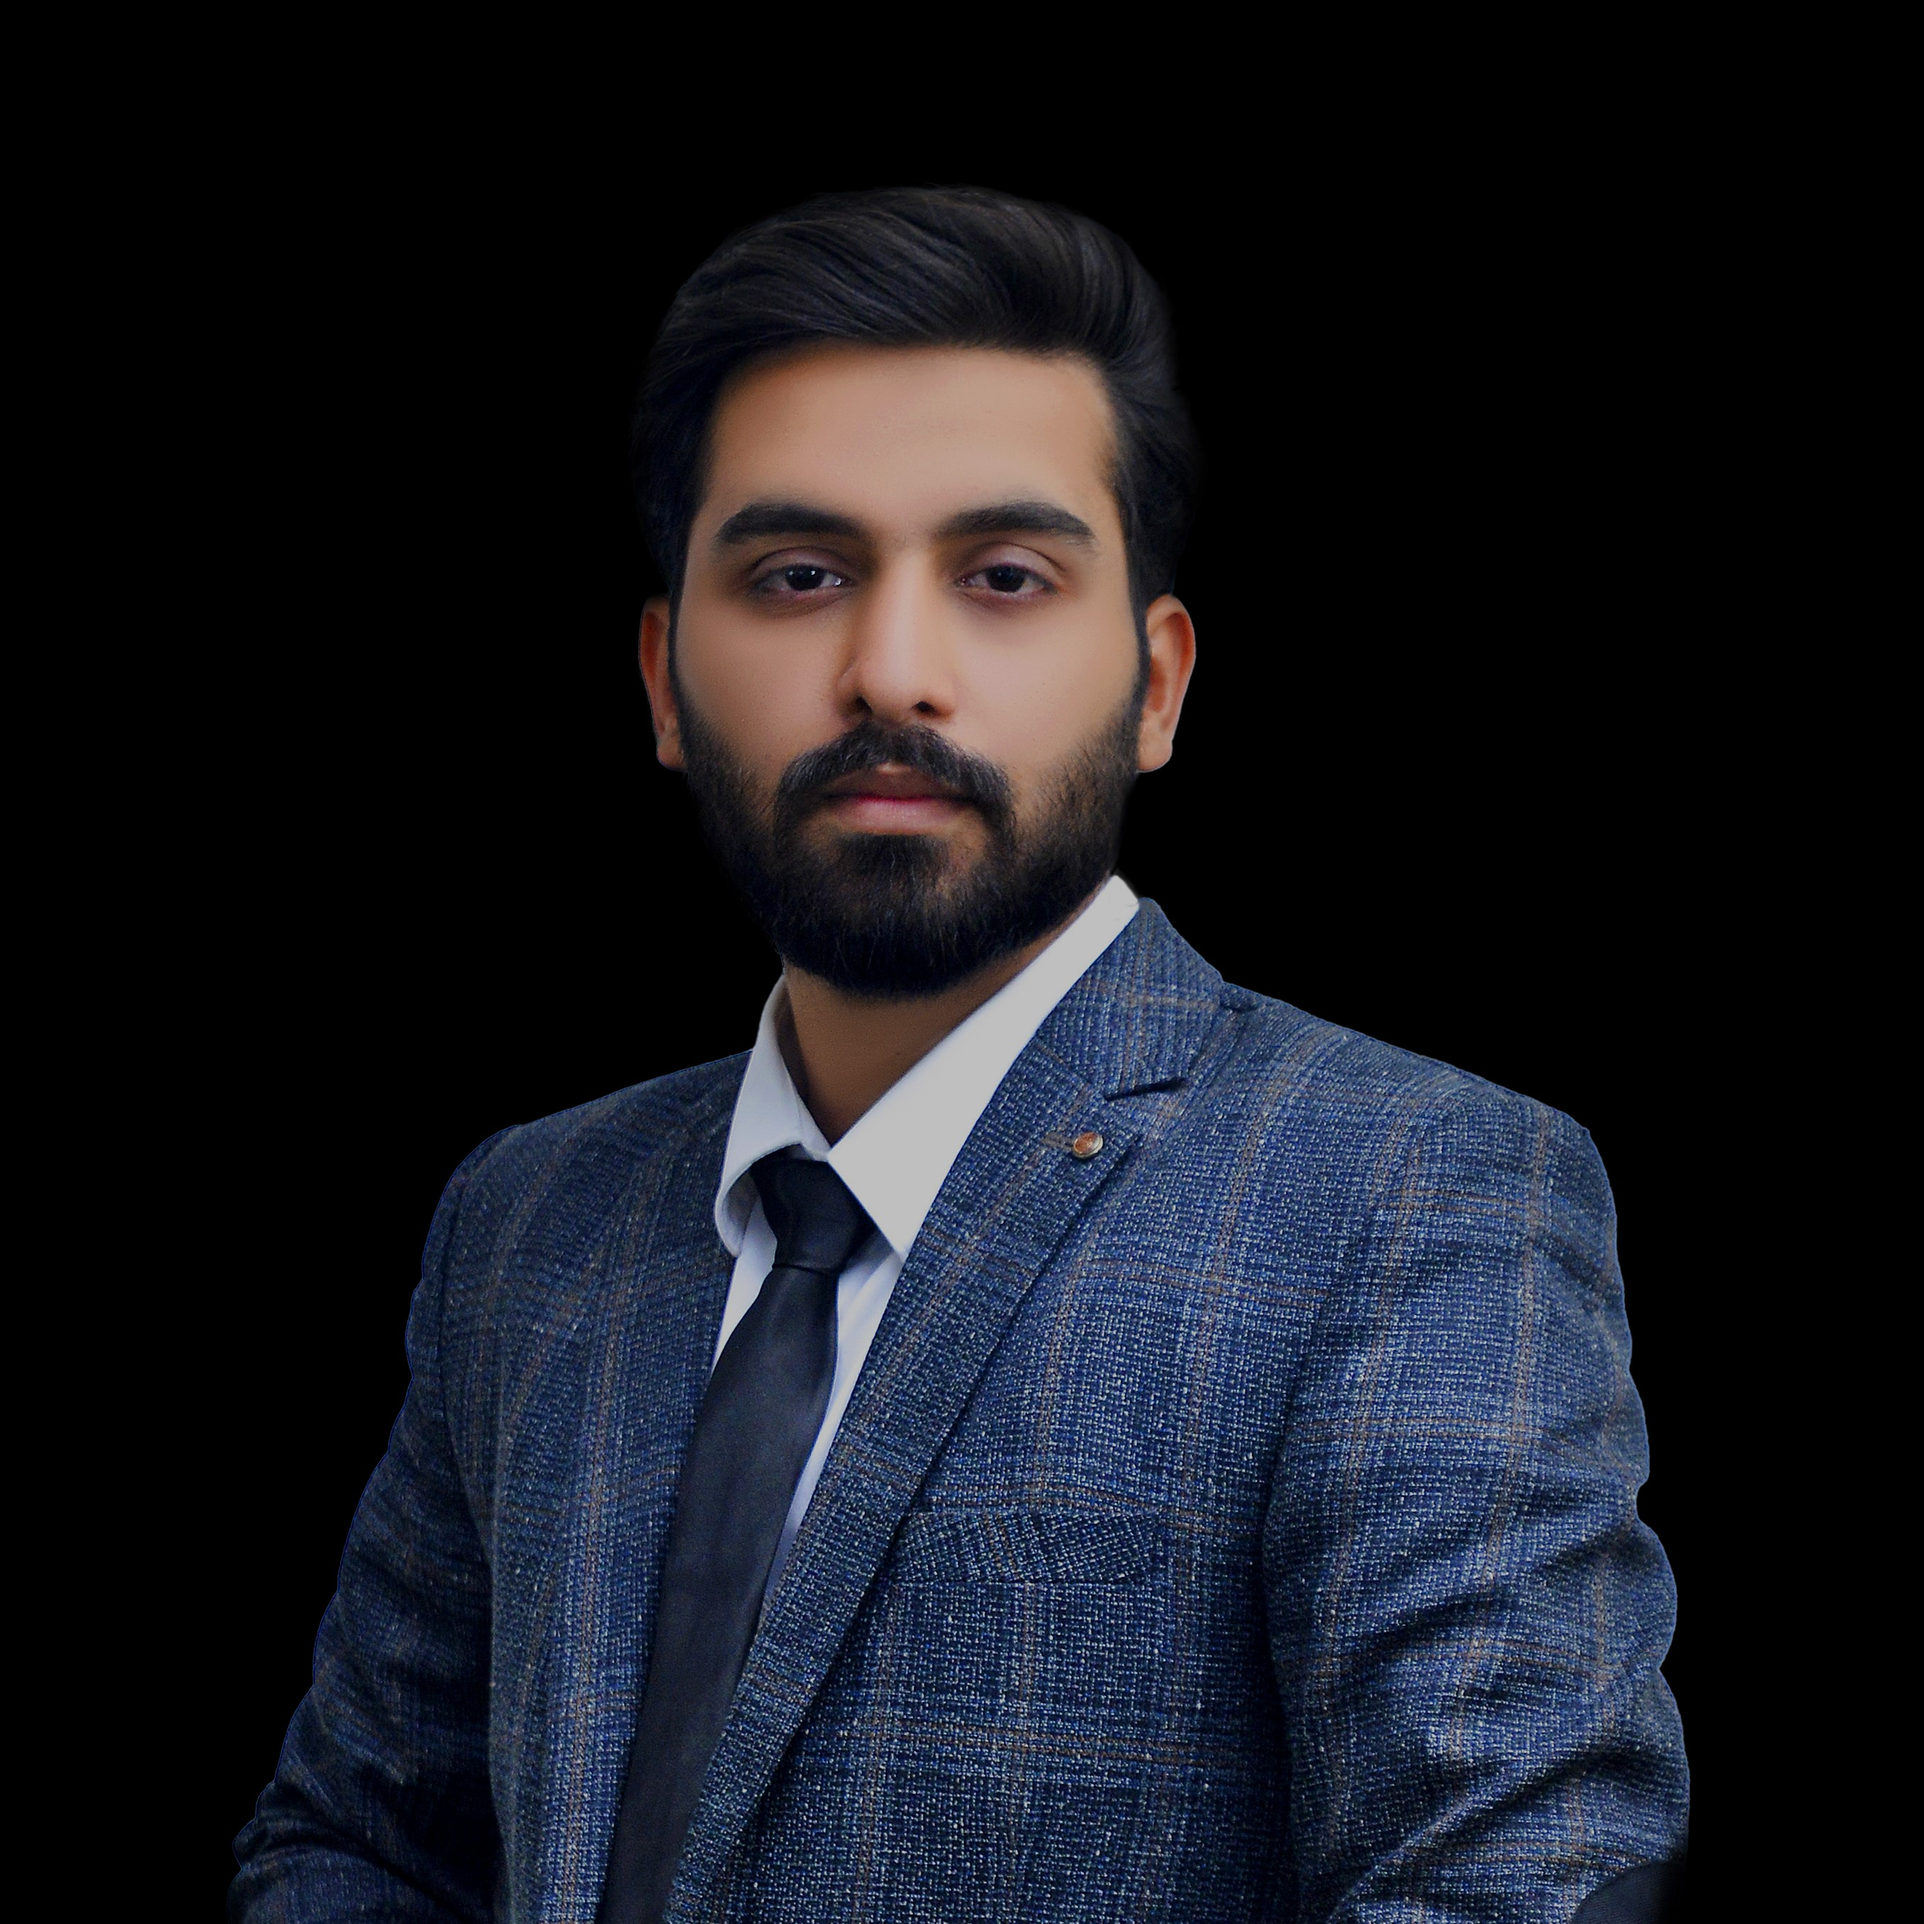
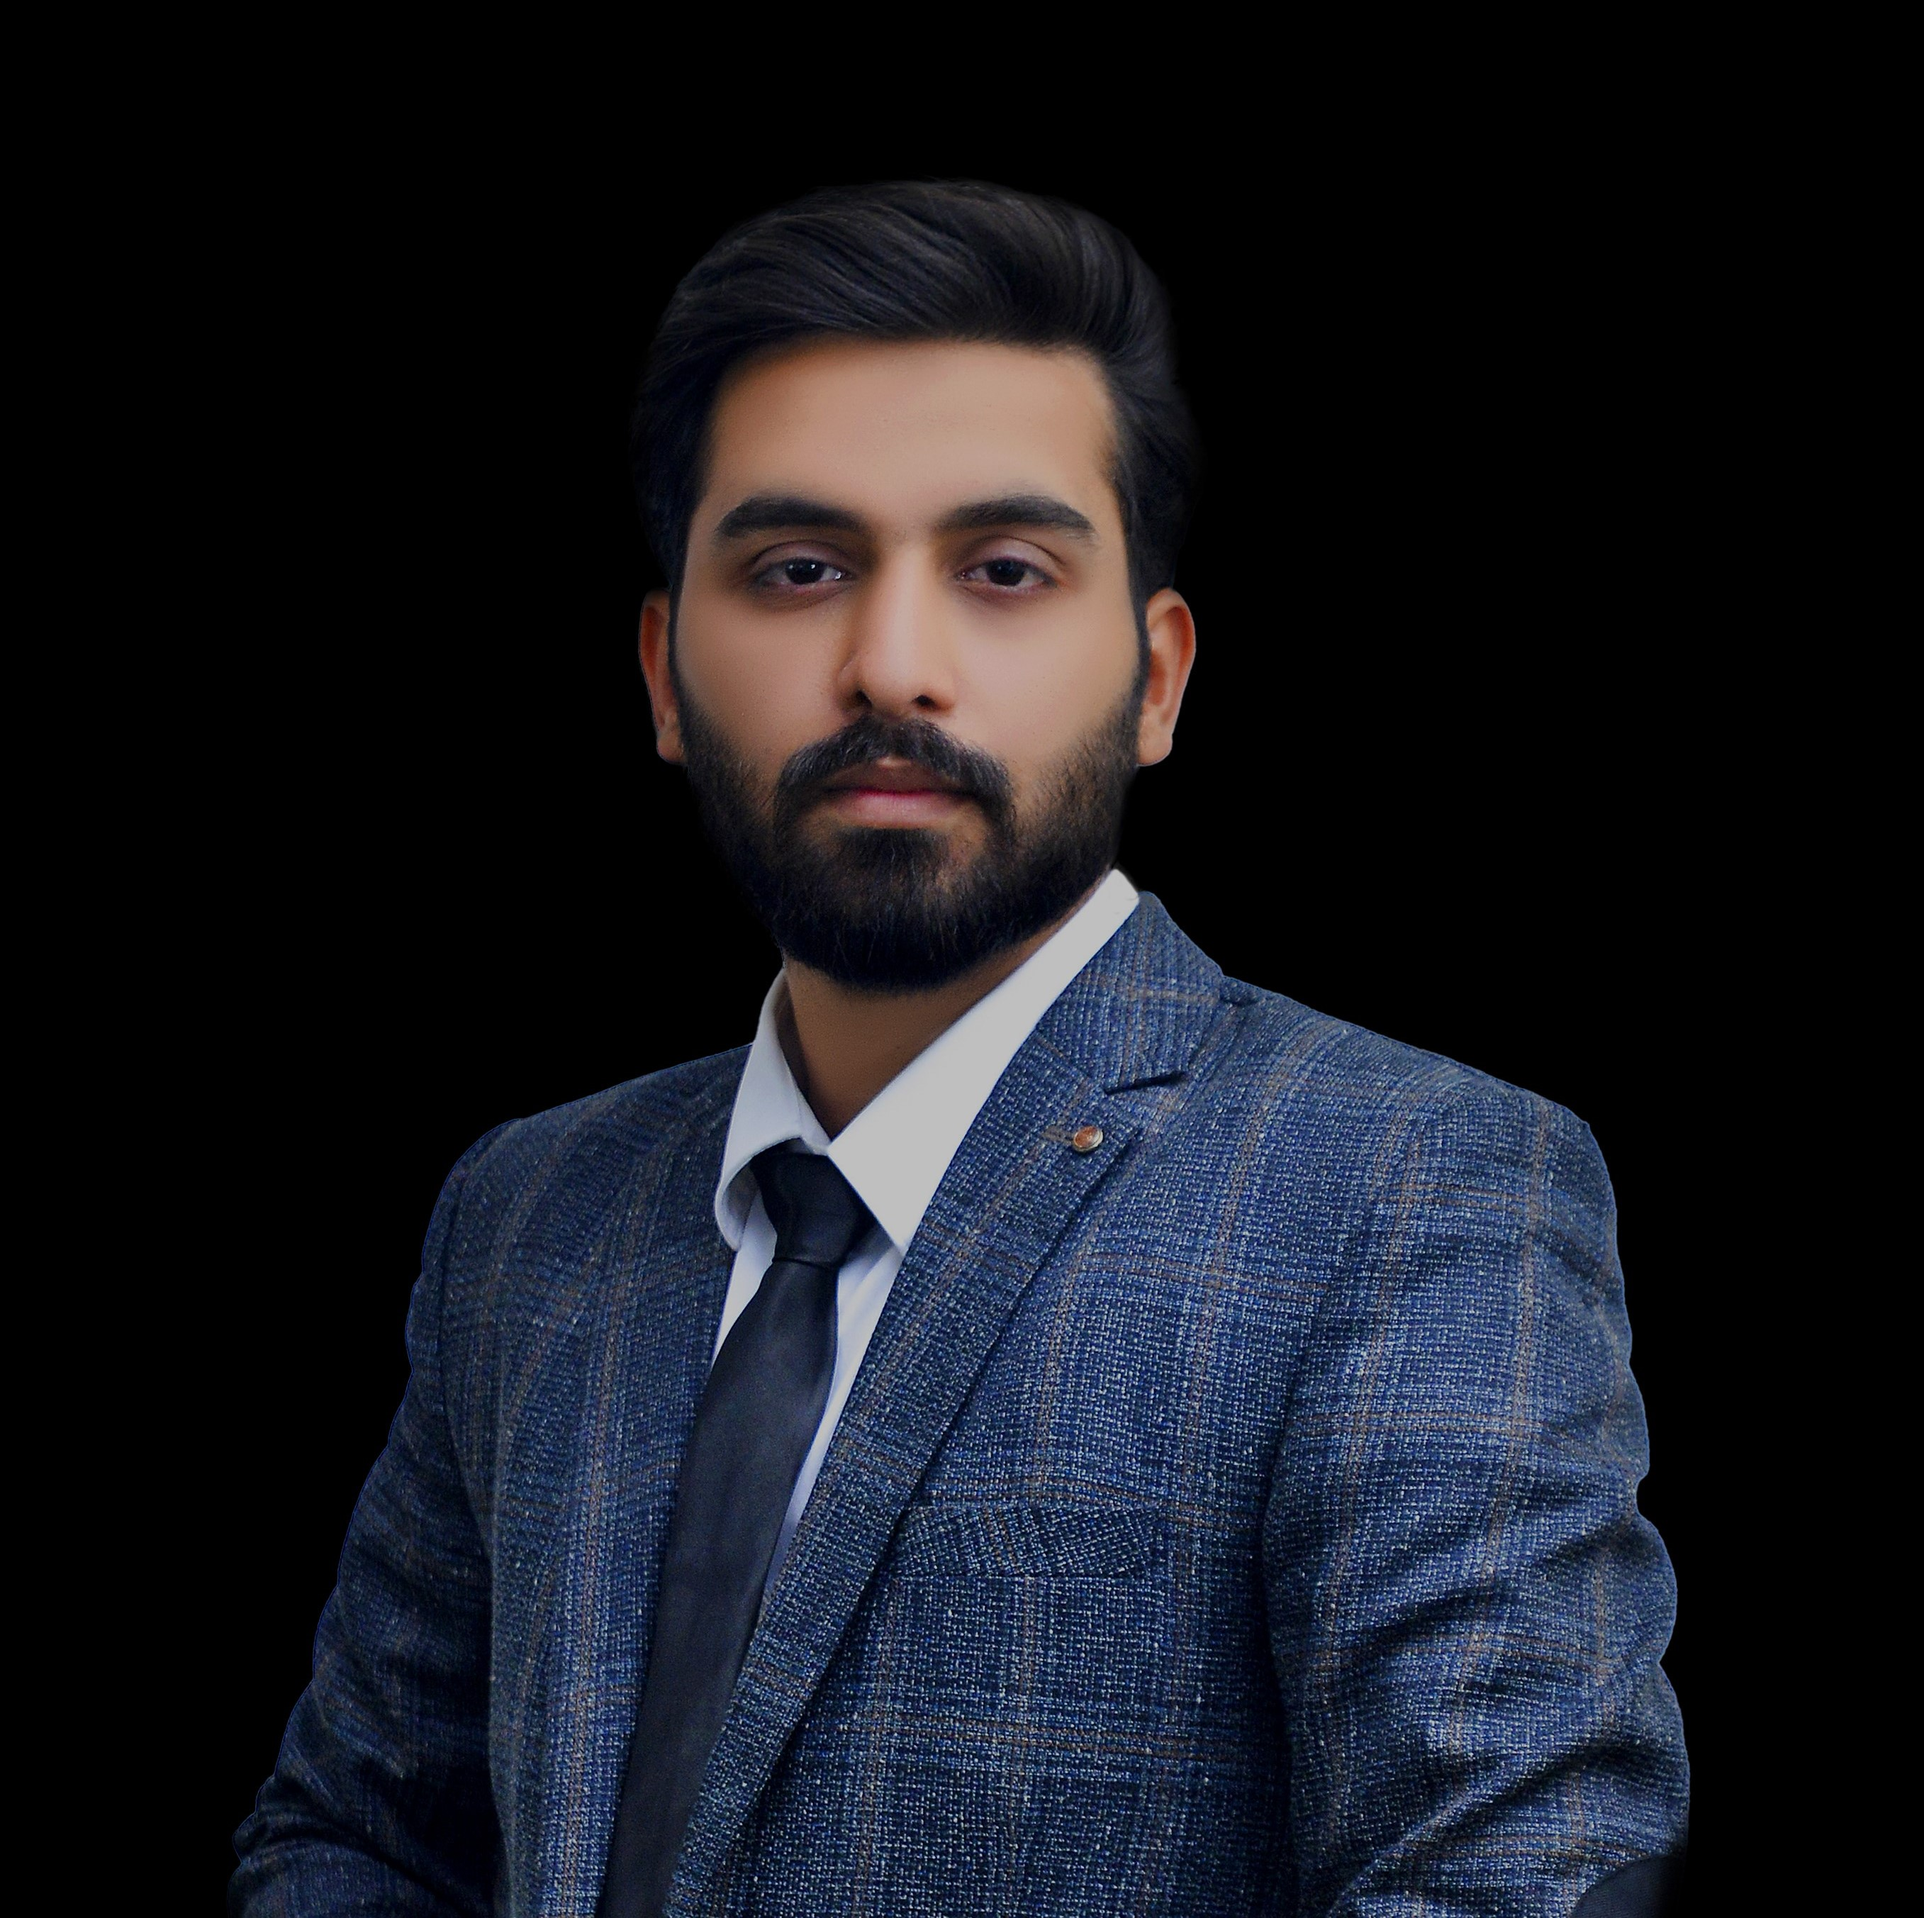
new update

diff --git a/my_app/templates/index.html b/my_app/templates/index.html
@@ -56,7 +56,7 @@
                             <a href="#contact" data-section-index="1" class="hire-me"><button  class="btn">Contact Us</button></a>
                         </div>
                         <div class="home-img padd-15">
-                            <img src="{% static 'images/fff7.jpg' %}" alt="" >
+                            <img src="{% static 'images/fff77.jpg' %}" alt="" >
                         </div>
                     </div>
                 </div>
